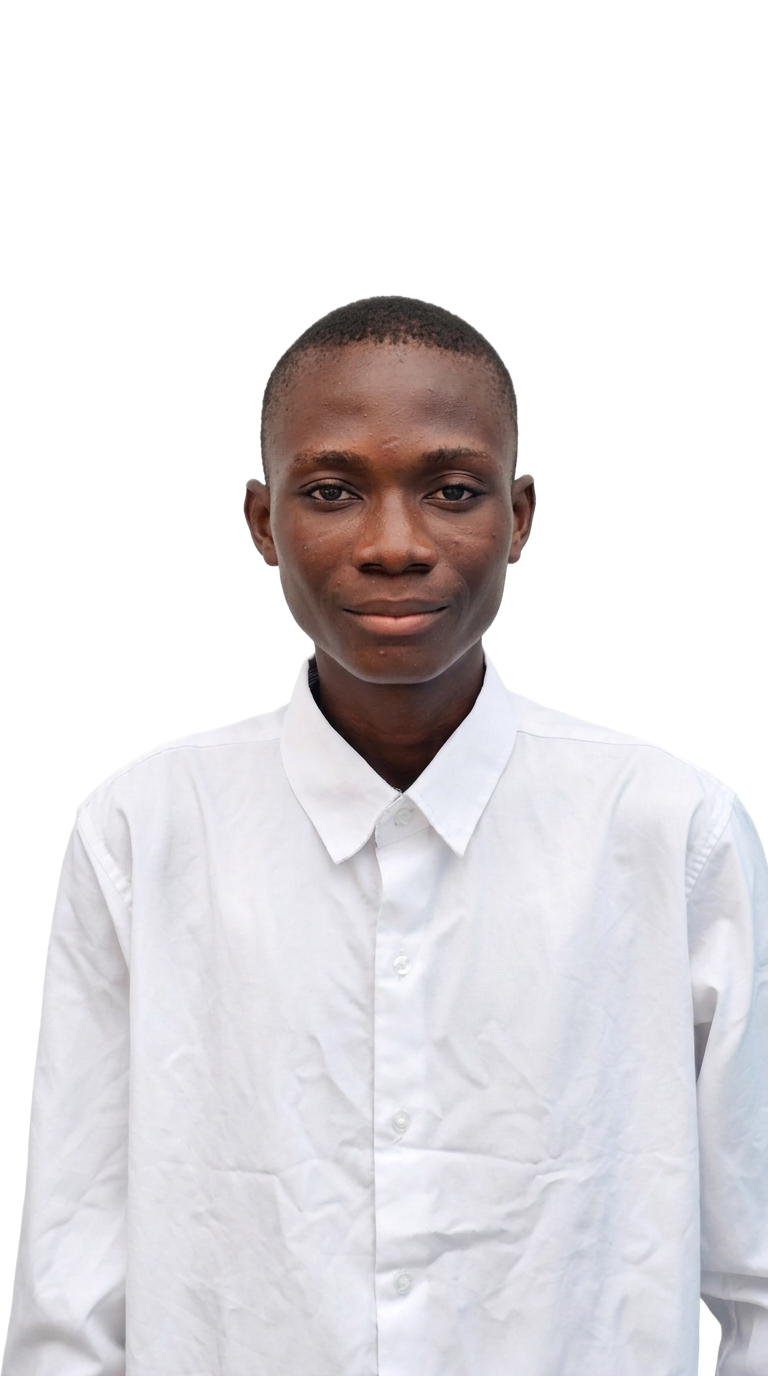
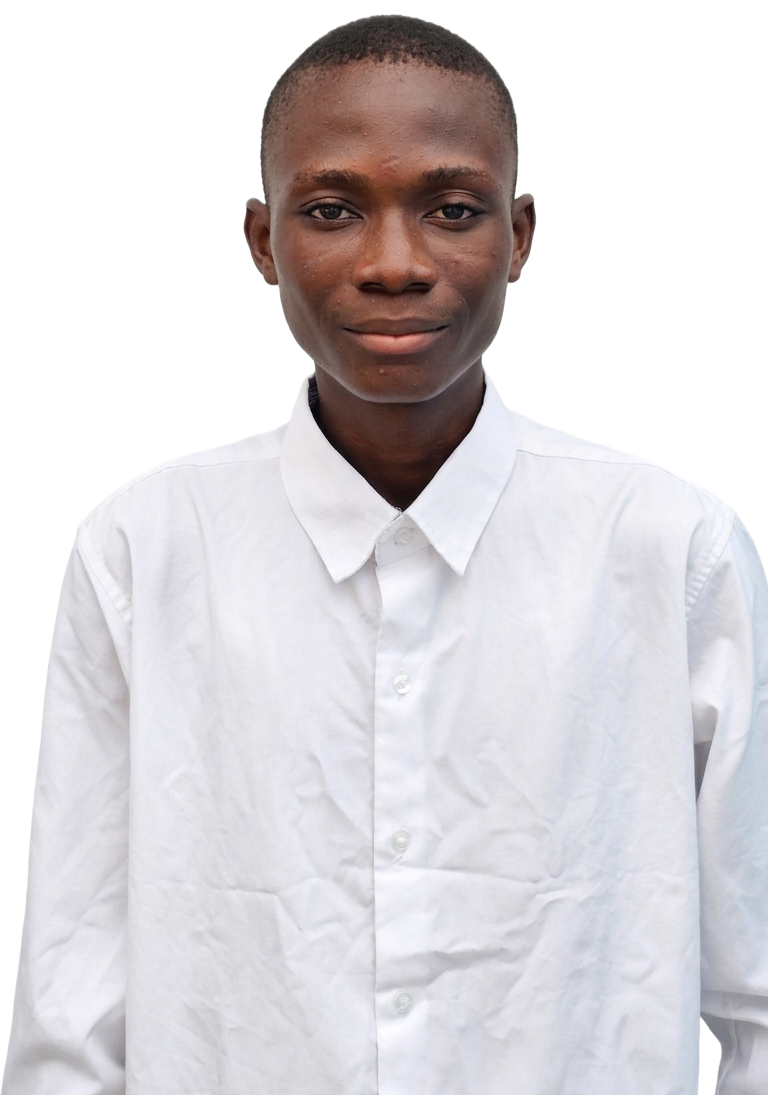
Changes

diff --git a/src/styles.css b/src/styles.css
@@ -58,16 +58,20 @@ a { color: inherit; text-decoration: none; }
 .social-link { display:grid; place-items:center; width:35px; height:35px; border:1px solid var(--border); border-radius:50%; transition:.2s; }.social-link:hover{border-color:var(--accent);color:var(--accent);transform:translateY(-2px)}.social-link svg{width:14px}
 .hero-visual { align-self:stretch; min-height:500px; position:relative; display:flex; align-items:flex-end; justify-content:center; }
 .hero-visual::after { content:""; position:absolute; left:5%; right:5%; bottom:0; height:68%; border-radius:50% 50% 0 0; background:linear-gradient(180deg,color-mix(in oklab,var(--accent) 18%,transparent),color-mix(in oklab,var(--accent) 5%,transparent)); }
-.hero-visual img { position:relative; z-index:2; width:79%; max-height:500px; object-fit:cover; object-position:top center; filter:grayscale(.08) contrast(1.05); mask-image:linear-gradient(to bottom,#000 84%,transparent); animation:portrait-in .9s cubic-bezier(.2,.8,.2,1) both; }
+.hero-visual img { position:relative; z-index:2; width:79%; height:500px; object-fit:contain; object-position:bottom center; mask-image:linear-gradient(to bottom,#000 88%,transparent); animation:portrait-in 1.1s cubic-bezier(.2,.8,.2,1) both; }
 .portrait-lines { position:absolute; z-index:1; top:84px; width:76%; aspect-ratio:1; border-radius:50%; background:repeating-linear-gradient(to bottom,transparent 0 10px,color-mix(in oklab,var(--foreground) 24%,transparent) 11px 12px,transparent 13px 17px); }
-.glow-sphere { position:absolute; z-index:3; width:42px; height:42px; border-radius:50%; background:radial-gradient(circle at 32% 28%,var(--accent),var(--card) 64%); box-shadow:0 0 28px color-mix(in oklab,var(--accent) 35%,transparent); animation:float 4s ease-in-out infinite; }.sphere-one{left:3%;top:28%}.sphere-two{right:2%;top:42%;width:58px;height:58px;animation-delay:-1.5s}
+.portrait-symbol { position:absolute; z-index:3; width:48px; height:48px; display:grid; place-items:center; border:1px solid var(--border); border-radius:8px; background:var(--card); color:var(--accent); animation:float 5s ease-in-out infinite; }.portrait-symbol svg{width:24px;height:24px}.symbol-one{left:3%;top:28%;transform:rotate(-8deg)}.symbol-two{right:2%;top:50%;animation-delay:-2s}
+.hero-copy>.eyebrow,.hero-copy>h1,.hero-copy>.hero-text,.hero-copy>.hero-actions { animation:copy-in .8s cubic-bezier(.2,.8,.2,1) both; }
+.hero-copy>h1{animation-delay:.12s}.hero-copy>.hero-text{animation-delay:.24s}.hero-copy>.hero-actions{animation-delay:.36s}
+.hero-actions a,.site-header a { transition:transform .25s,color .25s,background .25s; }.hero-actions a:hover{transform:translateY(-3px)}
+.tech-strip span { animation:copy-in .8s ease both; }.tech-strip span:nth-child(2){animation-delay:.15s}.tech-strip span:nth-child(3){animation-delay:.3s}.tech-strip span:nth-child(4){animation-delay:.45s}
 
 .tech-strip { min-height:76px; display:flex; align-items:center; justify-content:center; gap:clamp(32px,6vw,82px); padding:18px 24px; background:var(--secondary); border-block:1px solid color-mix(in oklab,var(--accent) 12%,transparent); overflow:hidden; }
 .tech-strip span { display:flex; align-items:center; gap:8px; white-space:nowrap; color:color-mix(in oklab,var(--foreground) 85%,transparent); font-size:12px; font-weight:700; }.tech-strip svg{width:21px;color:var(--foreground)}
 
 .about-section { min-height:570px; padding-block:90px; display:grid; grid-template-columns:.9fr 1fr; align-items:center; gap:76px; }
 .about-portrait { min-height:395px; position:relative; display:flex; align-items:flex-end; justify-content:center; border:1px solid var(--border); border-radius:14px 14px 0 0; background:linear-gradient(145deg,var(--secondary),var(--card)); overflow:hidden; }
-.about-portrait img { position:relative; z-index:2; width:76%; max-height:395px; object-fit:cover; object-position:top; filter:grayscale(.1); mask-image:linear-gradient(to bottom,#000 88%,transparent); }
+.about-portrait img { position:relative; z-index:2; width:76%; height:395px; object-fit:contain; object-position:bottom; mask-image:linear-gradient(to bottom,#000 88%,transparent); }
 .portrait-rings { position:absolute; left:-10%; bottom:-15%; width:220px; height:220px; border-radius:50%; border:20px double color-mix(in oklab,var(--accent) 45%,transparent); opacity:.55; }
 .section-title h2 { margin:0; font-size:clamp(30px,3.8vw,48px); line-height:1.07; font-weight:800; text-transform:uppercase; }
 .about-content>p { max-width:570px; margin:22px 0; color:var(--muted-foreground); font-size:13px; line-height:1.75; }
@@ -94,14 +98,18 @@ a { color: inherit; text-decoration: none; }
 .admin-auth,.admin-page{min-height:100vh;background:var(--background);color:var(--foreground)}.admin-auth{display:grid;place-items:center;padding:24px}.admin-auth>section{width:min(430px,100%);padding:38px;border:1px solid var(--border);background:var(--card)}.admin-auth .eyebrow{margin-top:48px}.admin-auth h1{margin:0 0 28px;font-size:42px;line-height:1;text-transform:uppercase}.admin-auth h1 span{display:block;color:var(--accent)}.admin-auth form{display:grid;gap:17px}.admin-auth label{display:grid;gap:7px;font-size:10px;font-weight:700;text-transform:uppercase}.admin-auth input{height:44px;background:var(--background)}.admin-auth form>p{margin:0;color:color-mix(in oklab,var(--destructive) 80%,var(--foreground));font-size:12px}.auth-divider{height:45px;display:flex;align-items:center;gap:12px;color:var(--muted-foreground);font-size:10px;text-transform:uppercase}.auth-divider:before,.auth-divider:after{content:"";height:1px;flex:1;background:var(--border)}
 .admin-header{height:70px;display:flex;align-items:center;justify-content:space-between;padding:0 4vw;border-bottom:1px solid var(--border);background:var(--card)}.admin-header>div{display:flex;gap:8px}.admin-shell{width:min(1120px,calc(100% - 48px));margin:auto;padding:48px 0 80px}.admin-intro{display:flex;justify-content:space-between;align-items:end;margin-bottom:28px}.admin-intro h1{margin:0;font-size:42px}.admin-intro>p{color:var(--accent);font-size:12px}.admin-page [role=tablist]{height:auto;display:flex;justify-content:flex-start;gap:5px;border-radius:0;border-bottom:1px solid var(--border);background:transparent;padding:0}.admin-page [role=tab]{border-radius:0;padding:13px 18px}.admin-page [role=tab][data-state=active]{background:var(--accent);color:var(--background)}.admin-page [role=tabpanel]{margin-top:24px}.admin-form,.entry-editor,.message-list article{padding:25px;border:1px solid var(--border);background:var(--card)}.admin-fields{display:grid;grid-template-columns:1fr 1fr;gap:16px}.admin-fields .wide{grid-column:1/-1}.admin-fields input,.admin-fields textarea,.entry-editor select{min-height:42px;background:var(--background);font-size:13px}.file-control{display:inline-flex!important;grid-template-columns:auto 1fr;align-items:center;gap:9px!important;margin:20px 18px 20px 0;padding:10px 13px;border:1px dashed var(--border);cursor:pointer}.file-control svg{width:16px}.file-control input{max-width:220px;border:0;font-size:10px}.admin-section-head,.entry-editor-head,.message-list header{display:flex;align-items:center;justify-content:space-between;gap:20px}.admin-section-head{margin-bottom:18px}.admin-section-head h2{margin:0}.entry-list,.message-list{display:grid;gap:14px}.entry-editor-head{margin-bottom:18px}.entry-editor-head select{padding:8px 12px;border:1px solid var(--border);color:var(--foreground)}.entry-editor-head>div{display:flex}.message-list article header div{display:grid;gap:4px}.message-list article header a{color:var(--accent);font-size:12px}.message-list time{color:var(--muted-foreground);font-size:11px}.message-list h3{margin:24px 0 8px}.message-list p{color:var(--muted-foreground);font-size:13px;line-height:1.65;white-space:pre-wrap}
 .reveal { opacity:0; transform:translateY(25px); transition:opacity .7s ease,transform .7s ease; }.reveal.is-visible{opacity:1;transform:none}
+.project-grid>.reveal:nth-child(3n+2),.services-grid>.reveal:nth-child(3n+2){transition-delay:.12s}.project-grid>.reveal:nth-child(3n+3),.services-grid>.reveal:nth-child(3n+3){transition-delay:.24s}
+.journey-list article{transition:border-color .3s,transform .3s}.journey-list article:hover{border-color:var(--accent);transform:translateX(4px)}
+.contact-form:focus-within{outline:1px solid var(--foreground);outline-offset:4px}.portfolio-page a:focus-visible{outline:2px solid var(--foreground);outline-offset:5px}
 
 @keyframes portrait-in{from{opacity:0;transform:translateY(25px)}}
+@keyframes copy-in{from{opacity:0;transform:translateY(18px)}to{opacity:1;transform:translateY(0)}}
 @keyframes float{50%{transform:translateY(-12px)}}
 @media(prefers-reduced-motion:reduce){*{scroll-behavior:auto!important;animation:none!important;transition:none!important}.reveal{opacity:1;transform:none}}
 @media(max-width:800px){
   .content-shell,.site-header,.hero-shell,.site-footer{width:min(100% - 32px,620px)}
   .site-header{height:68px}.site-header nav{display:none}.site-header>a:last-child{padding-inline:13px;font-size:10px}
-  .hero-shell{min-height:auto;grid-template-columns:1fr;gap:0}.hero-copy{padding:65px 0 20px}.hero-copy h1{font-size:clamp(40px,12vw,58px)}.hero-visual{min-height:410px}.hero-visual img{max-height:410px}.portrait-lines{top:60px}
+  .hero-shell{min-height:auto;grid-template-columns:1fr;gap:0}.hero-copy{padding:65px 0 20px}.hero-copy h1{font-size:clamp(40px,12vw,58px)}.hero-visual{min-height:410px}.hero-visual img{height:410px;max-height:410px}.portrait-lines{top:60px}
   .tech-strip{justify-content:flex-start;overflow:auto;gap:35px}.about-section{grid-template-columns:1fr;gap:42px;padding-block:70px}.about-portrait{min-height:355px}.about-portrait img{max-height:355px}
   .project-grid,.services-grid{grid-template-columns:1fr}.project-card{max-width:540px}.projects-section,.services-section{padding-block:70px}
   .journey-layout,.contact-layout{grid-template-columns:1fr;gap:38px}.journey-list article{grid-template-columns:90px 1fr}.contact-form{padding:20px}.contact-form-row{grid-template-columns:1fr}.contact-form-action{align-items:flex-start;flex-direction:column}.project-card a{min-width:44px;min-height:44px}.site-footer{flex-wrap:wrap;justify-content:center;text-align:center;padding-block:25px}.admin-header{height:auto;min-height:70px;padding:12px 16px}.admin-header .brand strong{display:none}.admin-header>div{gap:2px}.admin-header a,.admin-header button{font-size:0}.admin-header svg{width:18px;height:18px}.admin-shell{width:calc(100% - 28px);padding-top:30px}.admin-intro{display:block}.admin-intro h1{font-size:32px}.admin-page [role=tablist]{width:100%;overflow:auto}.admin-page [role=tab]{padding:12px 10px;font-size:11px}.admin-fields{grid-template-columns:1fr}.admin-fields .wide{grid-column:auto}.admin-form,.entry-editor,.message-list article{padding:17px}.admin-section-head h2{font-size:18px}.admin-auth>section{padding:26px}.admin-auth h1{font-size:35px}

diff --git a/src/routes/index.tsx b/src/routes/index.tsx
@@ -17,7 +17,7 @@ import { portfolioQuery, fallbackPortfolio } from "@/lib/portfolio";
 import projectBmb from "@/assets/project-bmb.jpg";
 import projectSchool from "@/assets/project-school.jpg";
 import stockAsset from "@/assets/project-stock-reference.jpg.asset.json";
-import portraitAsset from "@/assets/denis-portrait.jpg.asset.json";
+import portraitCutout from "@/assets/denis-portrait-cutout.png";
 
 export const Route = createFileRoute("/")({
   loader: async ({ context }) => {
@@ -71,7 +71,7 @@ function PortfolioPage() {
   const experiences = entries.filter((item) => item.type === "experience");
   const education = entries.filter((item) => item.type === "education");
   const testimonials = entries.filter((item) => item.type === "testimonial");
-  const portrait = profile.photo_path || portraitAsset.url;
+  const portrait = profile.photo_path || portraitCutout;
 
   return <main className="portfolio-page">
     <header className="site-header">
@@ -93,8 +93,8 @@ function PortfolioPage() {
       </div>
       <div className="hero-visual">
         <div className="portrait-lines" aria-hidden="true" />
-        <div className="glow-sphere sphere-one" aria-hidden="true" />
-        <div className="glow-sphere sphere-two" aria-hidden="true" />
+         <div className="portrait-symbol symbol-one" aria-hidden="true"><Code2 /></div>
+         <div className="portrait-symbol symbol-two" aria-hidden="true"><Database /></div>
          <img src={portrait} alt={`Portrait de ${profile.name}`} width={748} height={1600} />
       </div>
     </section>

diff --git a/AGENTS.md b/AGENTS.md
@@ -8,3 +8,6 @@
 > Commits you push to the connected branch sync back to Lovable and show up in
 > the editor, so keep the branch in a working state.
 <!-- LOVABLE:END -->
+
+- Keep the retouched default portrait as a bundled transparent image while allowing the saved admin photo to override it, so user uploads remain authoritative.
+- Implement portfolio motion with CSS and intersection-based reveals, respecting reduced-motion settings so animation does not block access to content.
